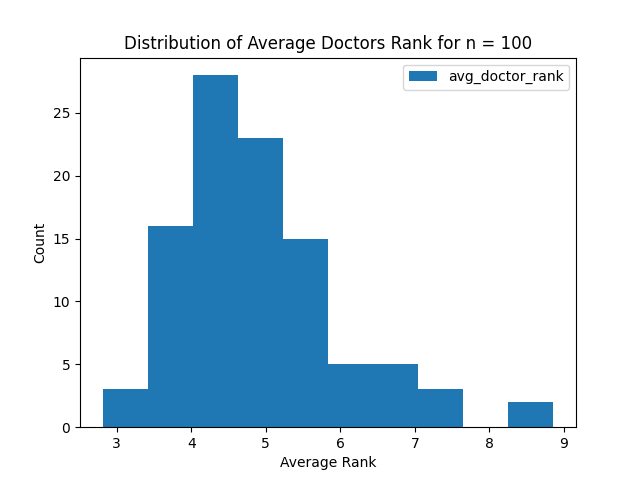
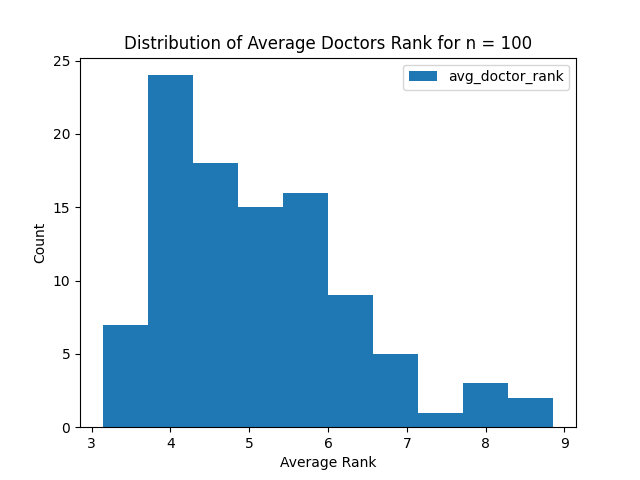
Update bin process

diff --git a/Gale-Shapley.py b/Gale-Shapley.py
@@ -190,7 +190,7 @@ def distribution_proposals_for_n():
 
 
     # Create plot for summary stats
-    summary_stats_df.plot.hist(column=["num_proposals"], by="n", bins = 5)
+    summary_stats_df.plot.hist(column=["num_proposals"], by="n", bins = 10)
 
     # Add title and labels
     plt.title(f'Distribution of Proposals for n = {NUM_PAIRS}')
